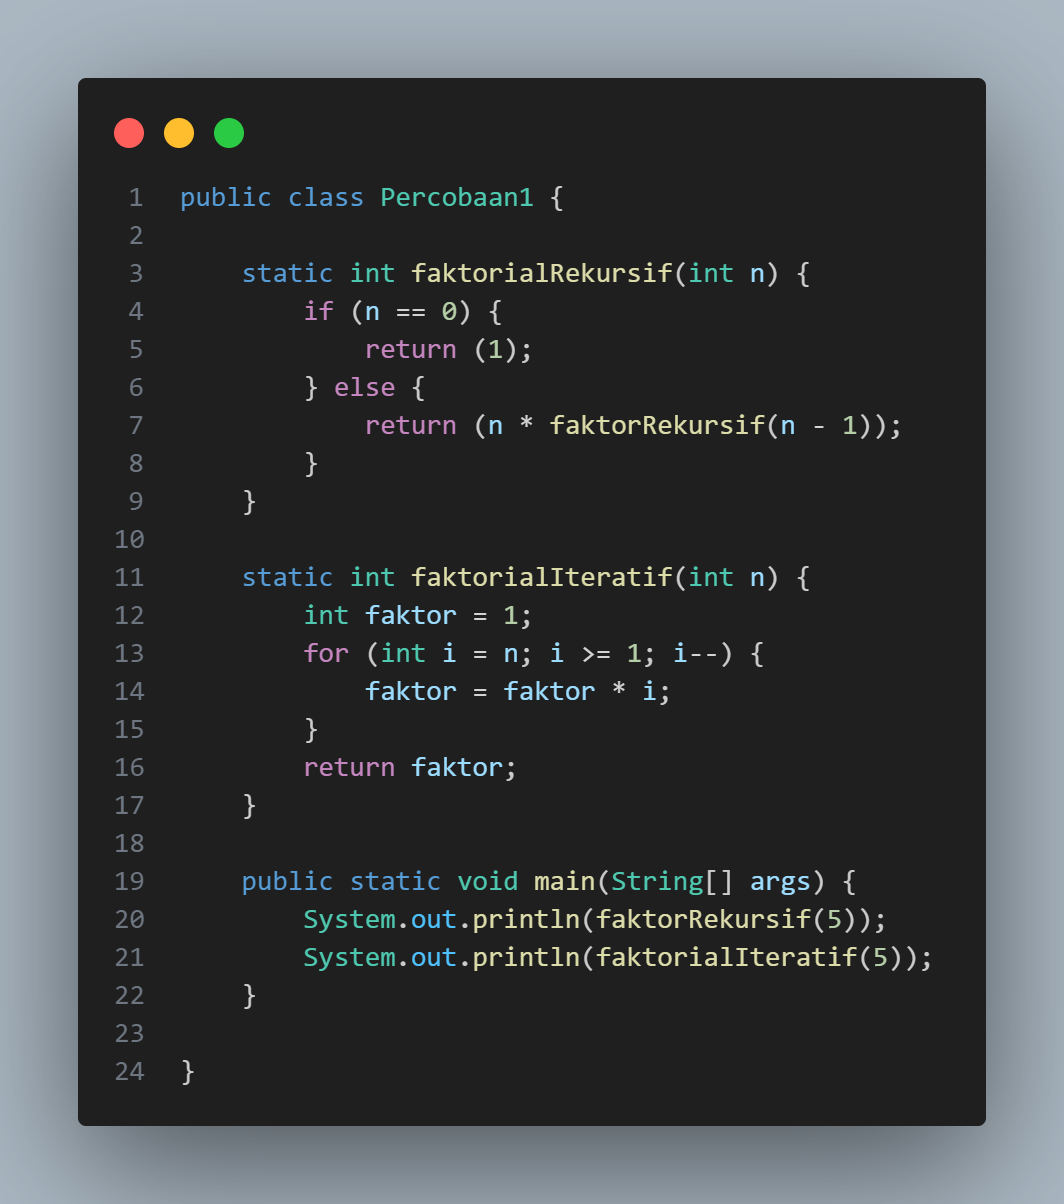
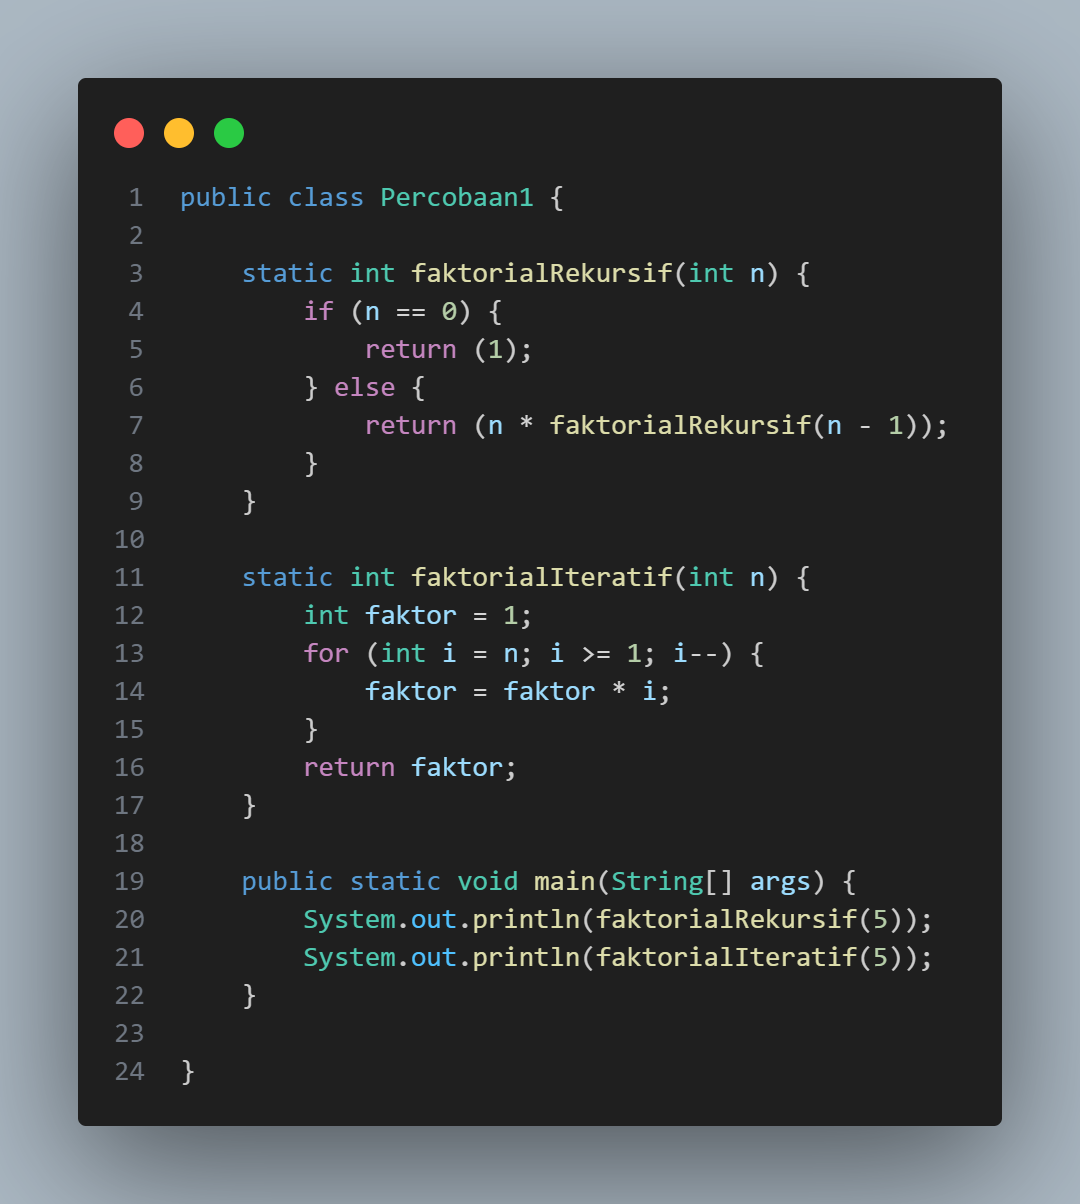
modify

diff --git a/Semester 1/Praktikum Daspro/Week 14/Percobaan1.java b/Semester 1/Praktikum Daspro/Week 14/Percobaan1.java
@@ -4,7 +4,7 @@ public class Percobaan1 {
         if (n == 0) {
             return (1);
         } else {
-            return (n * faktorRekursif(n - 1));
+            return (n * faktorialRekursif(n - 1));
         }
     }
 
@@ -17,7 +17,7 @@ public class Percobaan1 {
     }
 
     public static void main(String[] args) {
-        System.out.println(faktorRekursif(5));
+        System.out.println(faktorialRekursif(5));
         System.out.println(faktorialIteratif(5));
     }
     
